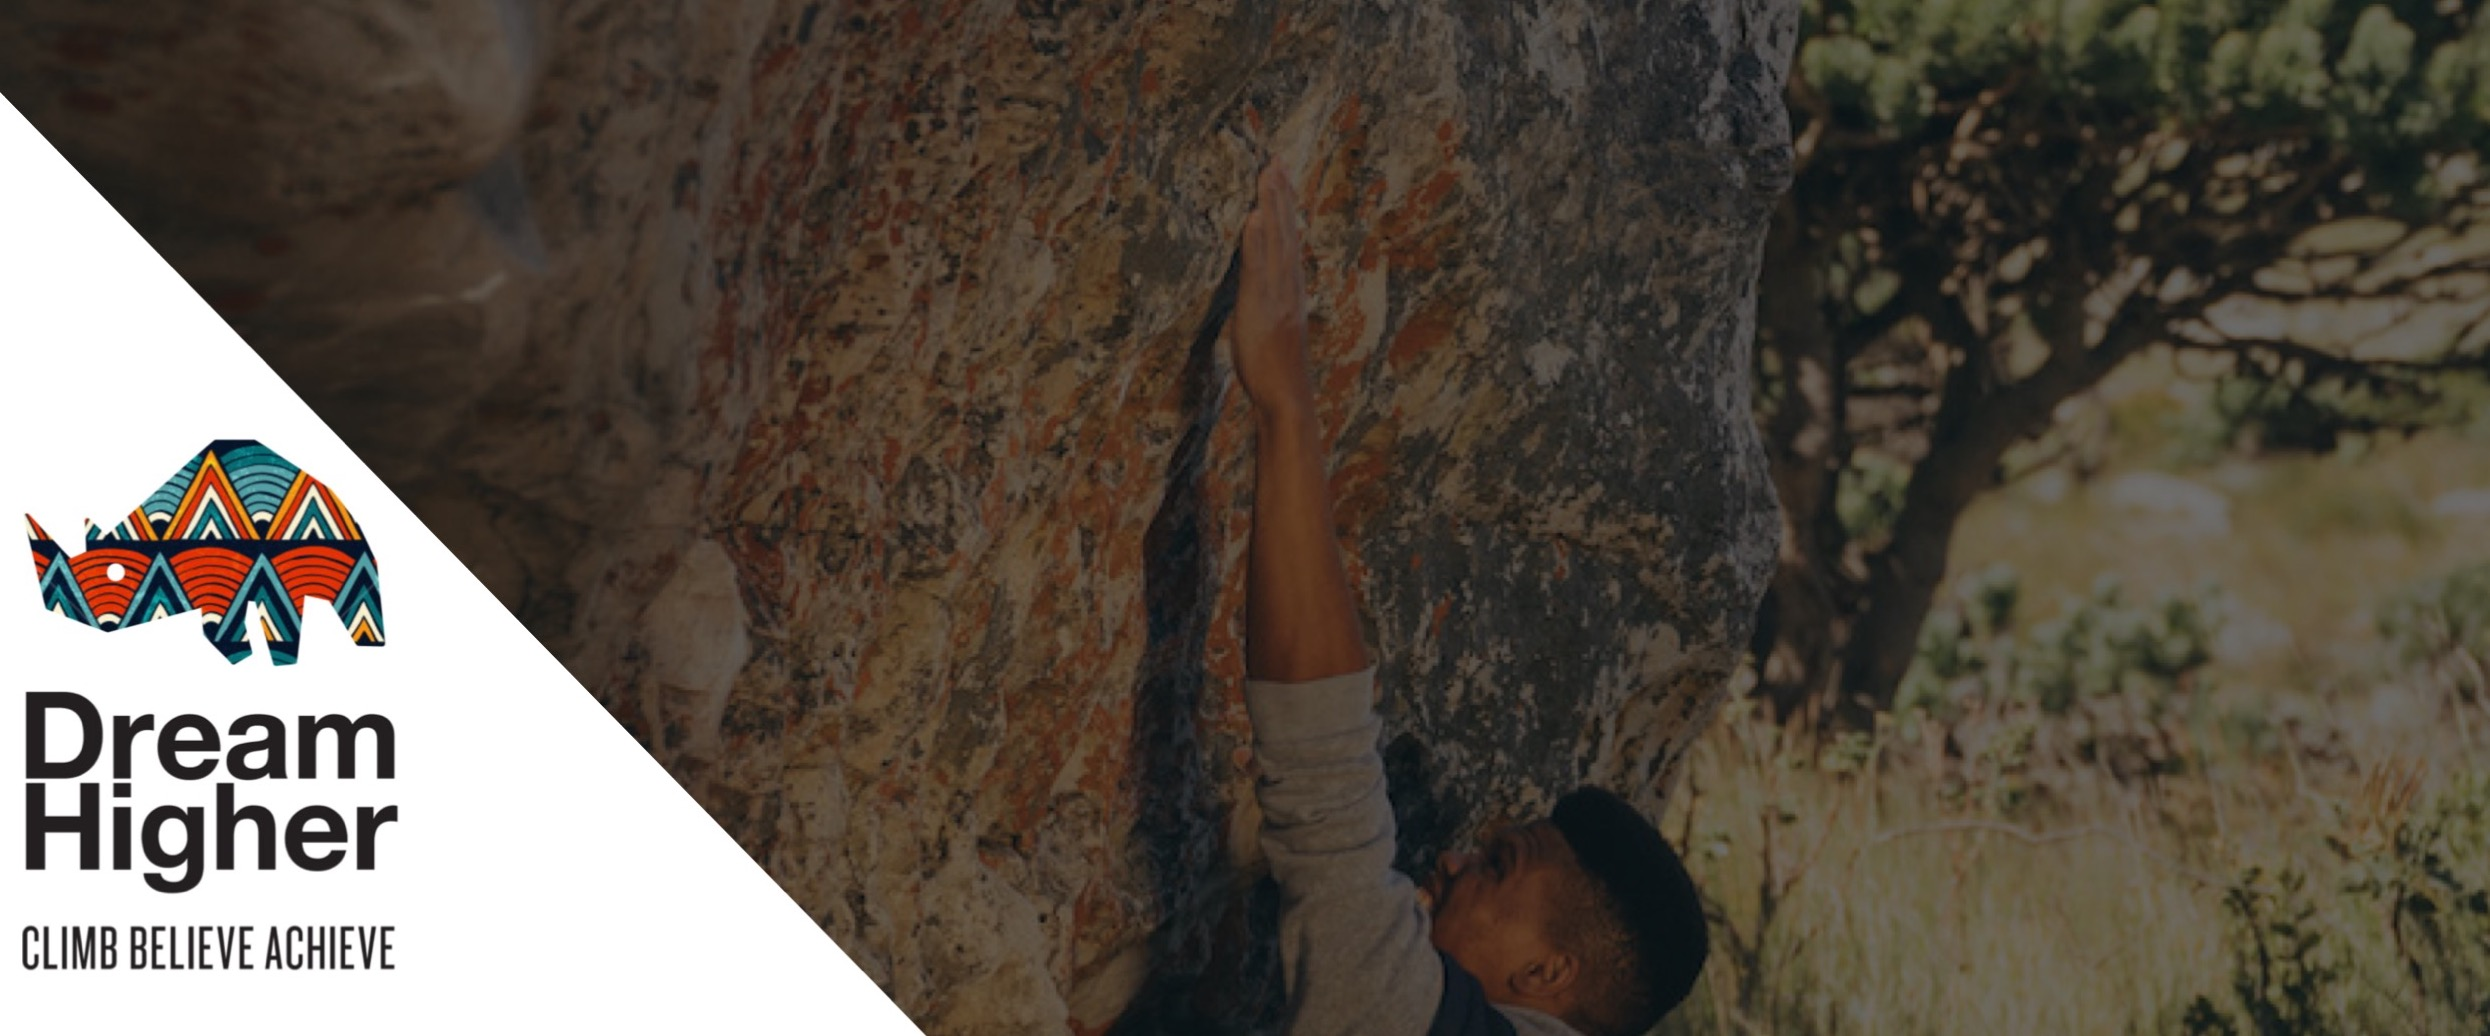
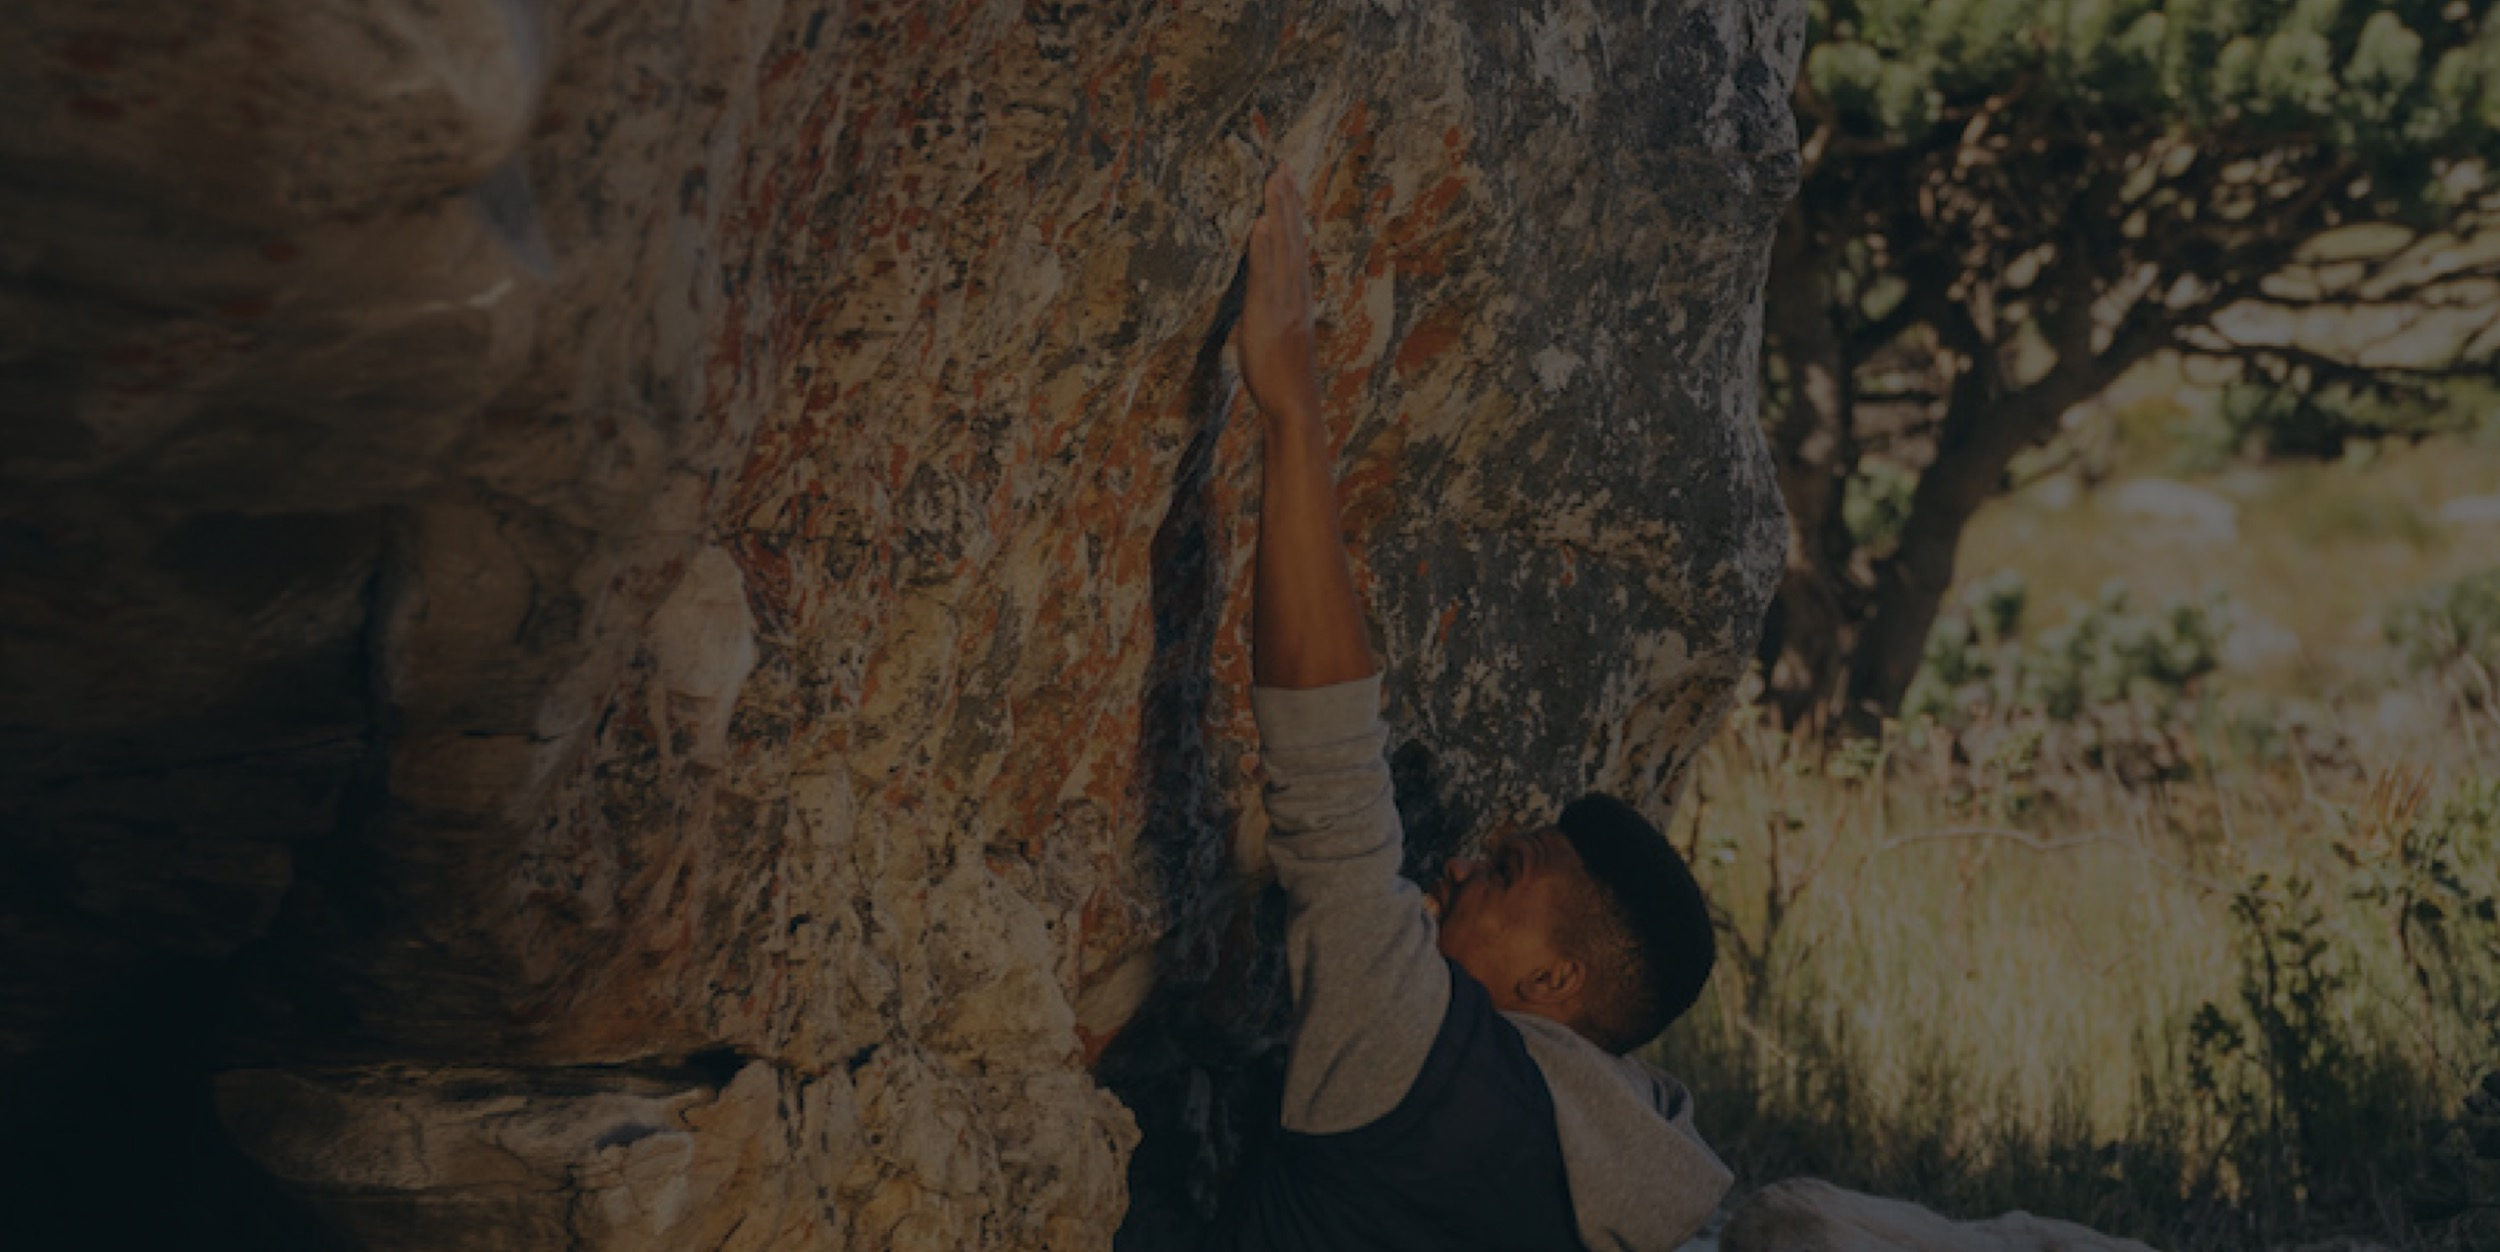
ready to publish

diff --git a/themes/gohugo-theme-ananke/layouts/partials/site-header.html b/themes/gohugo-theme-ananke/layouts/partials/site-header.html
@@ -9,20 +9,13 @@
         <h1 class="f2 f-subheadline-l fw2 white-90 mb0 lh-title">
           {{ .Title | default .Site.Title }}
         </h1>
-        <br />
-        <br />
-        <br />
-        <br />
-        <br />
-        <br />
-        <br />
-        {{ with .Params.description }}
-          <h2 class="fw1 f5 f3-l white-80 measure-wide-l center mt3">
-            {{ . }}
-          </h2>
-        {{ end }}
       </div>
     </div>
+         {{ if .Params.description }}
+          <img src="/images/dh2_tri.png" alt="Smiley face" align="top" height="350">
+        {{ else }}
+          <img src="/images/dh1_tri.png" alt="Smiley face" align="top" height="100">
+        {{ end }}
   </header>
 {{ else }}
   <header>

diff --git a/themes/gohugo-theme-ananke/layouts/partials/page-header.html b/themes/gohugo-theme-ananke/layouts/partials/page-header.html
@@ -1,3 +1,5 @@
+
+
 {{ $featured_image := .Params.featured_image }}
 {{ if $featured_image }}
   {{/* Trimming the slash and adding absURL make sure the image works no matter where our site lives */}}
@@ -6,7 +8,6 @@
     <div class="pb3-m pb6-l bg-transparent">
       {{ partial "site-navigation.html" . }}
       <div class="tc-l pv6 ph3 ph4-ns">
-        <h1 class="f2 f1-l fw2 white-90 mb0 lh-title">{{ .Title | default .Site.Title }}</h1>
         {{ with .Params.description  }}
           <h2 class="fw1 f5 f3-l white-80 measure-wide-l center lh-copy mt3 mb4">
             {{ . }}
@@ -22,3 +23,4 @@
     </div>
   </header>
 {{ end }}
+

diff --git a/themes/gohugo-theme-ananke/layouts/partials/site-navigation.html b/themes/gohugo-theme-ananke/layouts/partials/site-navigation.html
@@ -4,9 +4,14 @@
     <div class="flex-l items-center">
       {{ if .Site.Menus.main }}
         <ul class="pl0 mr3">
+        <li class="list f3 f3-ns fw4 dib pr3">
+            <a class="hover-white-40 no-underline silver" href="/" title="">
+            Home
+            </a>
+          </li>
           {{ range .Site.Menus.main }}
           <li class="list f3 f3-ns fw4 dib pr3">
-            <a class="hover-white-40 no-underline silver" href="{{ .URL }}" title="{{ .Name }} page">
+            <a class="hover-white-40 no-underline silver" href="{{ .URL }}" title="">
               {{ .Name }}
             </a>
           </li>

diff --git a/content/about/_index.md b/content/about/_index.md
@@ -1,8 +1,25 @@
 ---
 title: "About"
-description: " "
+description: ""
 featured_image: '/images/gym_dh.jpg'
 ---
+
+## Our mission
+
+Our goal is to bring rock climbing to the vulnerable youth of Cape
+Town, building confidence, bridging social divides and forming connections with the natural world
+
+## What we do
+
+#### Indoor bouldering session
+We organise multiple indoor coaching sessions a week for vulnerable youth from the Homestead at Cape Town’s premier indoor bouldering gym Bloc 11. We follow a training plan developed by our head training adviser [Matt Bush](https://www.instagram.com/mattclimber/) and our sessions are guided by experienced climbers who regularly invite some of South Africa’s top climbers to join the fun  
+
+#### Outdoor climbing days
+We have regular outdoor days in the month, bouldering and sport climbing around the Cape Peninsula under the supervision of experienced climbing guides  
+
+#### Introduction to climbing afternoons
+We offer to local outreach social initiatives working with vulnerable youth an introduction to climbing as a recreational activity so that their kids can come discover what is the sport about, have fun and test themselves against the problems. These events are hosted at Bloc 11 on a weekend afternoon, they are designed for groups of 10-15 youth who will be guided by experienced climbing coaches and our most committed team members. 
+If you are involved with such social initiatives and would like to explore the possibility to collaborate, kindly get in touch with us.
 
 ## Why climbing  
 
@@ -16,11 +33,12 @@ The emotional benefits of climbing, the strong bonds within the climbing communi
 
 Recognizing these benefits, a small group of local climbers approached the Homestead Project for Street Children and proposed to introduce the youth under their care to climbing. 
 
-[The Homestead Project for Street Children](http://homestead.org.za/) is a Cape Town based non-profit addressing to the plight of children living, working and begging on the streets of Cape Town. 
-  
-We now offer multiple indoor coaching sessions a week for vulnerable youth from the Homestead and other facilities at Cape Town's premier indoor bouldering gym [Bloc 11](http://www.bloc11.co.za), with input from some of South Africa's top climbing coaches. We also have regular outdoor days, bouldering and sport climbing around the Cape Peninsula under the supervision of experienced climbing guides.
+[The Homestead Project for Street Children](http://homestead.org.za/) is a Cape Town based non-profit addressing to the plight of children living, working and begging on the streets of Cape Town.
 
+With the support of [Bloc 11](http://www.bloc11.co.za) and [Vertigo adventures](https://vertigoadventures.co.za) we were provided with a world class bouldering facility from which to run our programme and top quality gear to equip our climbers
+  
 ## Our supporters  
+
 Our work is made possible by support from  
   
 <a href="http://www.bloc11.co.za">

diff --git a/content/Support us/_index.md b/content/Support us/_index.md
@@ -1,15 +1,15 @@
 ---
 title: "Support us"
-description: " "
+description: ""
 featured_image: '/images/geocache_dh.jpg'
 ---
 
 ## Donate  
   
+#### Financial contributions
 We are currently in the process of registering as a non-profit capable of accepting charitable donations. At the moment, if you would like to help financially, please contact us [here](./contact), or pay us a visit at [bloc 11](https://bloc11.co.za/).  
   
-## Gear  
-  
+#### Gear
 We are also always looking for additional climbing gear to help our team members. Things we are in particular need of are:  
 
 Ropes  
@@ -20,11 +20,11 @@ Crashpads
 Climbing sportwear and apparell  
 Hiking shoes 
 
-## Join us  
+## Join us outdoors
   
 We go climbing and bouldering around the Cape Peninsula regularly. It is always great to have a good crew of climbers at the crag simply to encourage the DreamHigher crew, share beta and make them feel part of the climbing community. [Get hold of us](./contact) to find our when and where our next adventure will be happening
 
-## Volunteer  
+## Volunteer your skills
   
 If you have a skill that you think could be of help to us, and would like to volunteer you time, please [Get in touch](./contact). We are always looking for people with skills in web design, legal issues, sports science or other relevant areas to contribute to our cause
 

diff --git a/content/post/2018-02-20-western-cape-boulder-league-2018.md b/content/post/2018-02-20-western-cape-boulder-league-2018.md
@@ -1,0 +1,20 @@
+---
+title: Western Cape boulder league 2018
+author: Glenn
+date: '2018-02-20'
+slug: western-cape-boulder-league-2018
+categories:
+  - Competition
+tags:
+  - Bloc11
+  - Competition
+  - Boulder league
+description: ''
+featured_image: 'images/boulder_dh.jpg'
+---
+
+Western Cape boulder league kicked-off last week at City Rock. Cape Town's strongest climbers decended in force and there were some really impressive performances from the usual suspects like Rowan Toselli of [be bolder](http://bebolder.co.za/) and Adam Ludford.   
+  
+DreamHigher were represented by Obert and Sibo, who had a great time working problems and sharing beta with other climbers. They were stumped by some of the hardest climbs, along with most other climbers, but showed great commitment.
+
+We can't wait for round 2 at bloc 11 on Wednesday the 21st of Feb. If you are participating in Boulder league, be sure to climb some problems with the guys from DreamHigher and share some beta!

diff --git a/content/post/2017-11-17-bloc-11-summer-bolder-league.md b/content/post/2017-11-17-bloc-11-summer-bolder-league.md
@@ -8,7 +8,7 @@ tags:
   - Bloc11
   - Competition
 description: ''
-featured_image: 'images/bloc11_league.jpg'
+featured_image: 'images/summer_dh.jpg'
 ---
 
 Are you planning to enter the Summer Boulder league at Bloc 11? Good news if you’re looking for beginner climber to form your team! Our DreamHigher guys are super amped to join the fun and are looking for teams. This is a great opportunity for you to get to know the DreamHigher team, and help them on their journey to becoming confident, strong climbers.

diff --git a/content/post/_index.md b/content/post/_index.md
@@ -1,5 +1,5 @@
 ---
 title: "News"
 featured_image: '/images/hig_dh.jpg'
-description: " "
+description: ""
 ---
